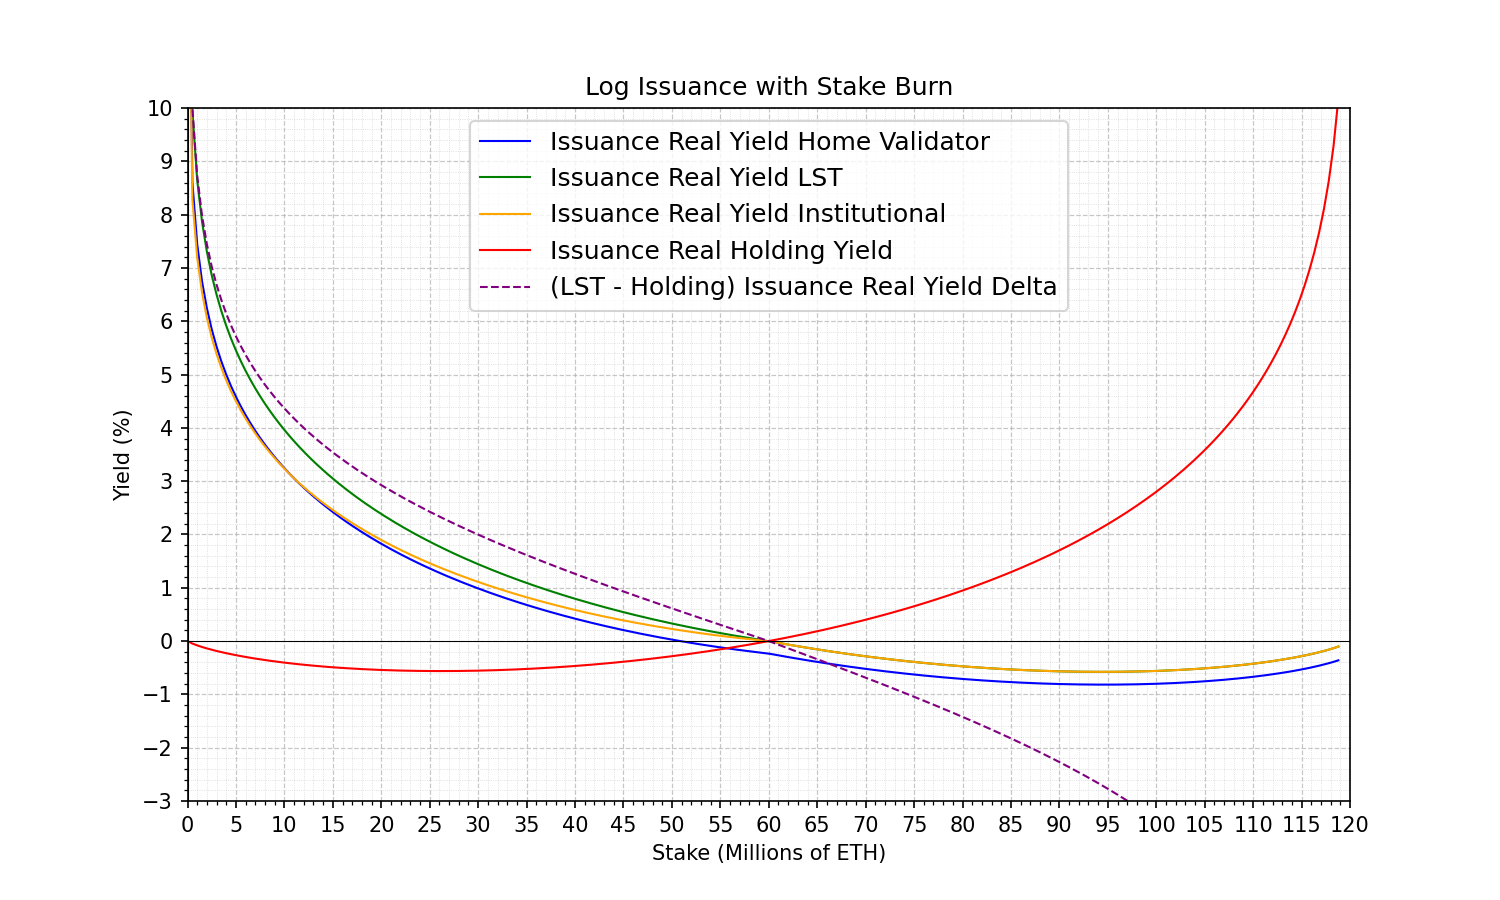
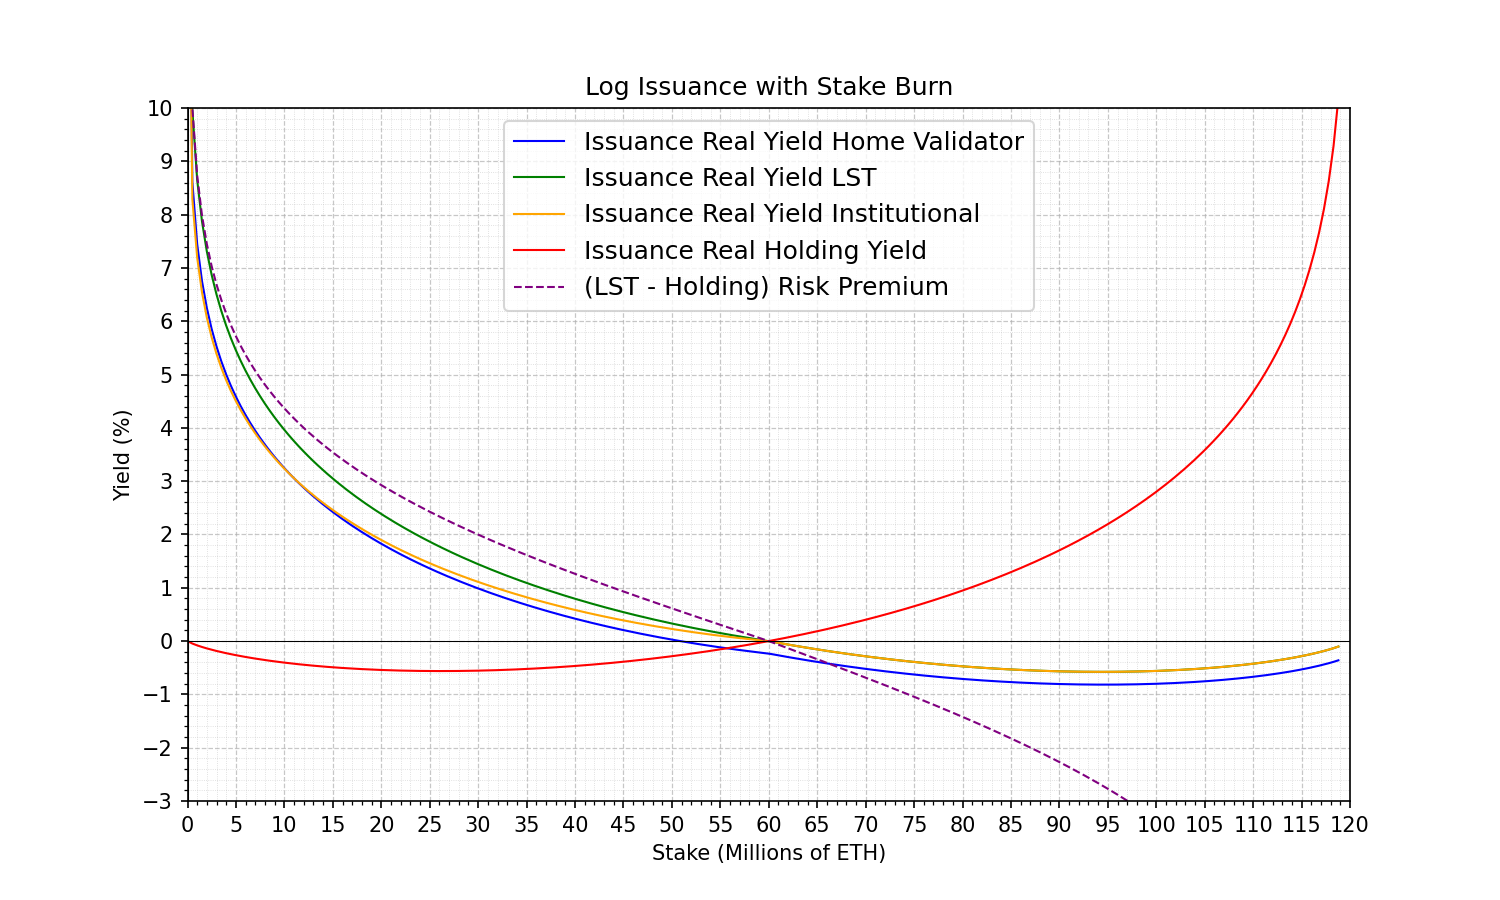
rename yield delta to risk premium in the legend

Changed region(s): [[0.368, 0.1244, 0.7053, 0.3422], [0.3067, 0.1244, 0.3373, 0.3422]]

diff --git a/plots/real_yield_plot.py b/plots/real_yield_plot.py
@@ -52,7 +52,7 @@ def plot(yield_curve: Callable,
     plt.plot(x, real_staking_yield_lst, label="Issuance Real Yield LST", color="green", linewidth=1)
     plt.plot(x, real_staking_yield_institutional, label="Issuance Real Yield Institutional", color="orange", linewidth=1)
     plt.plot(x, real_holding_yield, label="Issuance Real Holding Yield", color="red", linewidth=1)
-    plt.plot(x, yield_delta, label="(LST - Holding) Issuance Real Yield Delta", color="purple", linewidth=1, linestyle="--")
+    plt.plot(x, yield_delta, label="(LST - Holding) Risk Premium", color="purple", linewidth=1, linestyle="--")
 
     # Add titles and labels
     plt.title(title)
